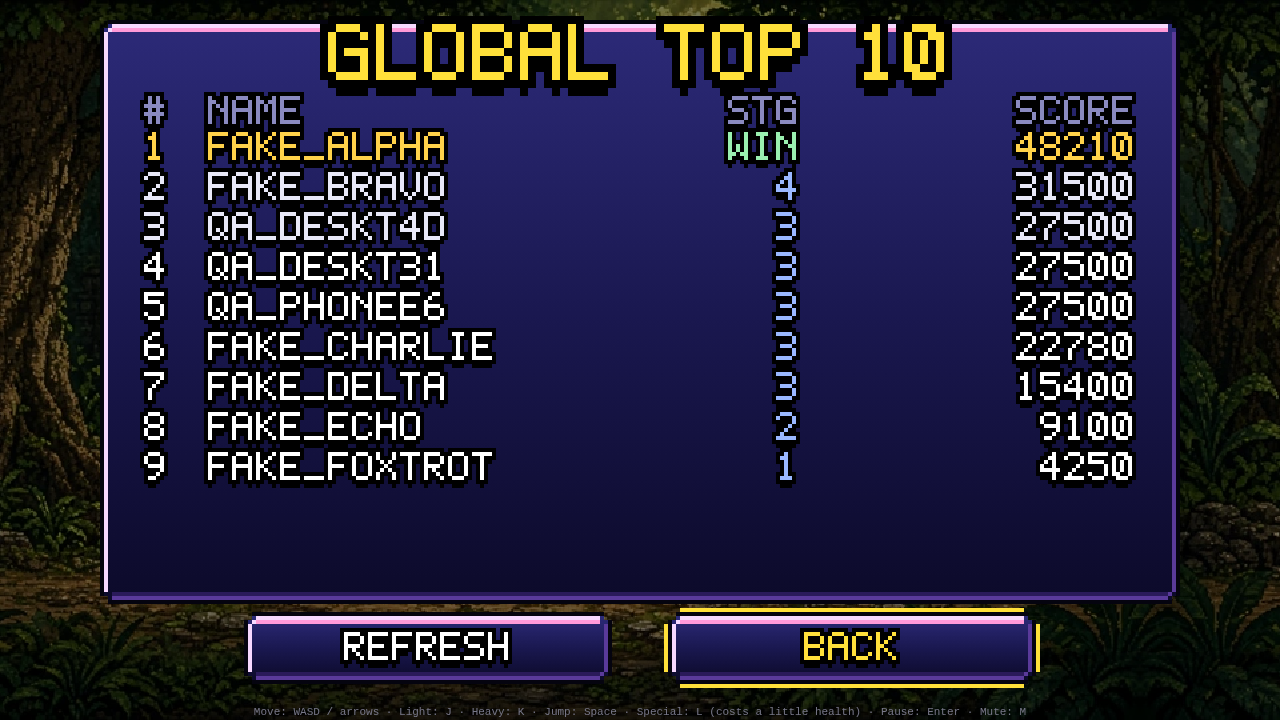
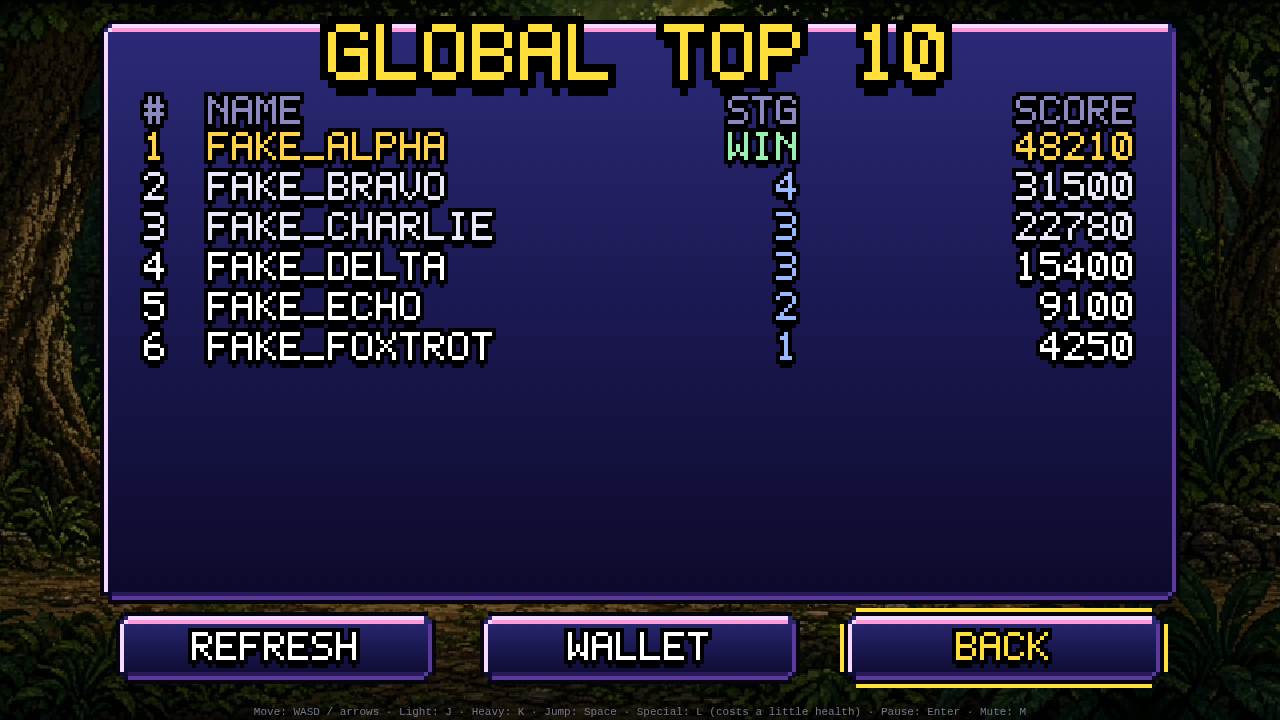
Optional private SOL wallet: set_wallet RPC, wallet dialog, export script, tests

diff --git a/js/lbui.js b/js/lbui.js
@@ -1,36 +1,48 @@
-// Name-entry overlay shown when a run ends. Plain DOM so phones get a real keyboard; styled to match the game's panels.
-import { cleanName, getName, setName, submitScore, friendlyError } from './leaderboard.js';
-let el, input, msg, title, sc, btnGo, btnSkip, btnLb, cur = null;
+// Name-entry / wallet overlay. Plain DOM so phones get a real keyboard; styled to match the game's panels.
+import { cleanName, checkWallet, getName, setName, getWallet, saveWallet, submitScore, friendlyError } from './leaderboard.js';
+let el, input, wal, msg, title, sc, btnGo, btnSkip, cur = null;
+const NOTE = 'WALLET OPTIONAL. ONLY FOR POSSIBLE FUTURE PRIZES. STORED PRIVATELY, NEVER SHOWN ON THE BOARD.';
 function build() {
   if (el) return;
   el = document.createElement('div'); el.id = 'lbPrompt'; el.hidden = true;
-  el.innerHTML = '<div class="lbbox"><div class="lbt"></div><div class="lbs"></div><div class="lbrow"><input type="text" maxlength="12" autocomplete="off" autocapitalize="characters" autocorrect="off" spellcheck="false" enterkeyhint="send" placeholder="YOUR NAME" aria-label="Leaderboard name (3 to 12 characters)"><button type="button" class="lbgo">SUBMIT</button><button type="button" class="lbsk">SKIP</button></div><div class="lbm"></div></div>';
+  el.innerHTML = '<div class="lbbox"><div class="lbt"></div><div class="lbs"></div>'
+    + '<div class="lbrow"><input class="lbname" type="text" maxlength="12" autocomplete="off" autocapitalize="characters" autocorrect="off" spellcheck="false" enterkeyhint="next" placeholder="YOUR NAME" aria-label="Leaderboard name (3 to 12 characters)"><button type="button" class="lbgo">SUBMIT</button><button type="button" class="lbsk">SKIP</button></div>'
+    + '<div class="lbrow lbw"><input class="lbwal" type="text" maxlength="50" autocomplete="off" autocapitalize="off" autocorrect="off" spellcheck="false" enterkeyhint="send" placeholder="SOL WALLET (OPTIONAL)" aria-label="Solana wallet address, optional"></div>'
+    + '<div class="lbn"></div><div class="lbm"></div></div>';
   document.body.appendChild(el);
-  input = el.querySelector('input'); msg = el.querySelector('.lbm'); title = el.querySelector('.lbt'); sc = el.querySelector('.lbs'); btnGo = el.querySelector('.lbgo'); btnSkip = el.querySelector('.lbsk');
+  input = el.querySelector('.lbname'); wal = el.querySelector('.lbwal'); msg = el.querySelector('.lbm'); title = el.querySelector('.lbt'); sc = el.querySelector('.lbs'); btnGo = el.querySelector('.lbgo'); btnSkip = el.querySelector('.lbsk');
+  el.querySelector('.lbn').textContent = NOTE;
   el.addEventListener('pointerdown', e => e.stopPropagation()); el.addEventListener('keydown', e => e.stopPropagation()); el.addEventListener('keyup', e => e.stopPropagation());
-  input.addEventListener('keydown', e => { if (e.key === 'Enter') { e.preventDefault(); go(); } else if (e.key === 'Escape') close(false); });
+  input.addEventListener('keydown', e => { if (e.key === 'Enter') { e.preventDefault(); wal.focus(); } else if (e.key === 'Escape') close(false); });
+  wal.addEventListener('keydown', e => { if (e.key === 'Enter') { e.preventDefault(); go(); } else if (e.key === 'Escape') close(false); });
   btnGo.addEventListener('click', go); btnSkip.addEventListener('click', () => close(false));
 }
-function close(sub) { el.hidden = true; try { input.blur(); } catch (_) {} const c = cur; cur = null; if (c) c.done(sub); }
+function close(sub) { el.hidden = true; try { input.blur(); wal.blur(); } catch (_) {} const c = cur; cur = null; if (c) c.done(sub); }
+const bad = t => { msg.textContent = t; msg.className = 'lbm bad'; };
 async function go() {
-  if (!cur) return;
+  if (!cur || btnGo.disabled) return;
   if (cur.finished) { const c = cur; cur = null; el.hidden = true; c.done(true, true); return; }
-  const v = cleanName(input.value); if (!v.ok) { msg.textContent = v.err; msg.className = 'lbm bad'; return; }
+  const v = cleanName(input.value); if (!v.ok) return bad(v.err);
+  const w = checkWallet(wal.value); if (!w.ok) return bad(w.err);
   btnGo.disabled = true; msg.textContent = 'SENDING...'; msg.className = 'lbm';
+  let note = '';
   try {
+    if (cur.walletOnly) { await saveWallet(v.name, w.wallet); setName(v.name); msg.textContent = w.wallet ? 'WALLET SAVED' : 'WALLET REMOVED'; msg.className = 'lbm ok'; cur.finished = true; btnGo.disabled = false; btnGo.textContent = 'OK'; btnSkip.hidden = true; return; }
     const r = await submitScore({ name: v.name, score: cur.score, stage: cur.stage, won: cur.won });
-    setName(v.name); cur.finished = true;
-    msg.textContent = 'SAVED!' + (r.rank ? ' YOU ARE RANK #' + r.rank : ''); msg.className = 'lbm ok';
-    btnGo.textContent = 'LEADERBOARD'; btnGo.disabled = false; btnSkip.textContent = 'CLOSE'; input.disabled = true;
-    cur.result = { id: r.id, rank: r.rank, name: v.name, score: cur.score };
+    setName(v.name); cur.finished = true; cur.result = { id: r.id, rank: r.rank, name: v.name, score: cur.score };
     cur.onSaved && cur.onSaved(cur.result);
-  } catch (e) { msg.textContent = friendlyError(e) + ' (RETRY OR SKIP)'; msg.className = 'lbm bad'; btnGo.disabled = false; }
+    if (w.wallet || getWallet()) { try { await saveWallet(v.name, w.wallet); note = w.wallet ? ' WALLET SAVED.' : ''; } catch (e) { note = ' (WALLET NOT SAVED: ' + friendlyError(e).replace('SCORE ', '') + ')'; } }
+    msg.textContent = 'SAVED!' + (r.rank ? ' YOU ARE RANK #' + r.rank + '.' : '') + note; msg.className = 'lbm ok';
+    btnGo.textContent = 'LEADERBOARD'; btnGo.disabled = false; btnSkip.textContent = 'CLOSE'; input.disabled = true; wal.disabled = true;
+  } catch (e) { bad(friendlyError(e) + ' (RETRY OR SKIP)'); btnGo.disabled = false; }
 }
-// opts: {score, stage, won, title, onSaved, done(submitted, openBoard)}
+// opts: {score, stage, won, title, walletOnly, onSaved, done(submitted, openBoard)}
 export function openPrompt(opts) {
   build(); cur = { ...opts, finished: false };
-  title.textContent = opts.title; sc.textContent = 'SCORE ' + opts.score; msg.textContent = 'ENTER A NAME FOR THE GLOBAL BOARD'; msg.className = 'lbm';
-  btnGo.textContent = 'SUBMIT'; btnGo.disabled = false; btnSkip.textContent = 'SKIP'; input.disabled = false; input.value = getName();
-  el.hidden = false; setTimeout(() => { try { input.focus(); input.select(); } catch (_) {} }, 50);
+  title.textContent = opts.title; sc.textContent = opts.walletOnly ? 'SOL WALLET FOR POSSIBLE FUTURE PRIZES' : 'SCORE ' + opts.score; sc.hidden = false;
+  msg.textContent = opts.walletOnly ? 'LEAVE WALLET EMPTY TO REMOVE IT' : 'ENTER A NAME FOR THE GLOBAL BOARD'; msg.className = 'lbm';
+  btnGo.textContent = opts.walletOnly ? 'SAVE' : 'SUBMIT'; btnGo.disabled = false; btnSkip.textContent = opts.walletOnly ? 'CANCEL' : 'SKIP'; btnSkip.hidden = false;
+  input.disabled = false; wal.disabled = false; input.value = getName(); wal.value = getWallet();
+  el.hidden = false; setTimeout(() => { try { (input.value ? wal : input).focus(); } catch (_) {} }, 50);
 }
 export const promptOpen = () => !!cur;

diff --git a/js/leaderboard.js b/js/leaderboard.js
@@ -1,6 +1,6 @@
 // Global leaderboard client (Supabase REST, public key only). Every call fails soft: the game never depends on the network.
 import { LB_URL, LB_KEY } from './lbconfig.js';
-const NAME_KEY = 'harambe-lb-name', TOKEN_KEY = 'harambe-lb-token', LAST_KEY = 'harambe-lb-last';
+const WALLET_KEY = 'harambe-lb-wallet', NAME_KEY = 'harambe-lb-name', TOKEN_KEY = 'harambe-lb-token', LAST_KEY = 'harambe-lb-last';
 let memToken = null;
 const ls = { get(k) { try { return localStorage.getItem(k); } catch (_) { return null; } }, set(k, v) { try { localStorage.setItem(k, v); } catch (_) {} } };
 
@@ -19,6 +19,15 @@ export function cleanName(raw) {
 }
 export const getName = () => ls.get(NAME_KEY) || '';
 export const setName = n => ls.set(NAME_KEY, n);
+// SOL address: base58 (no 0 O I l), 32-44 chars. Empty is allowed (optional).
+export function checkWallet(raw) {
+  const w = String(raw == null ? '' : raw).trim();
+  if (!w) return { ok: true, wallet: '' };
+  if (!/^[1-9A-HJ-NP-Za-km-z]{32,44}$/.test(w)) return { ok: false, err: 'NOT A VALID SOL ADDRESS (32-44 CHARS, NO 0 O I l)' };
+  return { ok: true, wallet: w };
+}
+export const getWallet = () => ls.get(WALLET_KEY) || '';
+export const setWalletLocal = w => ls.set(WALLET_KEY, w);
 export function getToken() {
   let t = ls.get(TOKEN_KEY) || memToken;
   if (!t) { const a = new Uint8Array(16); (globalThis.crypto || {}).getRandomValues ? crypto.getRandomValues(a) : a.forEach((_, i) => a[i] = Math.random() * 256); t = Array.from(a, b => b.toString(16).padStart(2, '0')).join(''); memToken = t; ls.set(TOKEN_KEY, t); }
@@ -38,6 +47,7 @@ async function rpc(fn, body, ms = 7000) {
 }
 export function friendlyError(e) {
   const m = String((e && e.message) || '');
+  if (/bad wallet/.test(m)) return 'NOT A VALID SOL ADDRESS';
   if (/slow down/.test(m)) return 'SLOW DOWN - TRY AGAIN IN A MOMENT';
   if (/rate limit/.test(m)) return 'TOO MANY SUBMISSIONS - TRY LATER';
   if (e && e.server) return 'SCORE REJECTED';
@@ -48,3 +58,4 @@ export async function submitScore({ name, score, stage, won }) {
   return { id: r && r.id, rank: r && r.rank };
 }
 export async function fetchTop(n = 10) { const rows = await rpc('top_scores', { p_limit: n }); return Array.isArray(rows) ? rows : []; }
+export async function saveWallet(name, wallet) { await rpc('set_wallet', { p_token: getToken(), p_name: name, p_wallet: wallet }); setWalletLocal(wallet); }

diff --git a/js/main.js b/js/main.js
@@ -103,9 +103,10 @@ function openLB(from) {
   G.menu = mkLbMenu(); G.mode = 'lb'; G.mt = 0; refreshLB();
 }
 function mkLbMenu() {
-  const m = { kind: 'lb', sel: 1, items: [{ label: 'REFRESH', act: () => refreshLB(), r: { x: 62, y: 154, w: 90, h: 16 } }, { label: 'BACK', act: closeLB, r: { x: 168, y: 154, w: 90, h: 16 } }], back: () => { closeLB(); return null; } };
+  const m = { kind: 'lb', sel: 2, items: [{ label: 'REFRESH', act: () => refreshLB(), r: { x: 30, y: 154, w: 78, h: 16 } }, { label: 'WALLET', act: askWallet, r: { x: 121, y: 154, w: 78, h: 16 } }, { label: 'BACK', act: closeLB, r: { x: 212, y: 154, w: 78, h: 16 } }], back: () => { closeLB(); return null; } };
   return m;
 }
+function askWallet() { openPrompt({ walletOnly: true, title: 'SOL WALLET', done: () => { input.releaseAll(); input.anyPress(); } }); }
 function closeLB() {
   const prev = G.lbPrev || 'title'; input.releaseTouch();
   if (prev === 'title') { G.menu = titleMenu(); setMode('title'); } else { G.menu = null; G.mode = prev; G.mt = G.lbMt || 0; }
@@ -460,7 +461,7 @@ function step(dt) {
     case 'stageclear': G.clearT = (G.clearT || 0) + dt; if (G.clearT > 3.2 && (input.take('start') || input.take('atk') || G.clearT > 6)) { startCutscene(G.stage); } break;
     case 'cutscene': if (stepCutscene(G.cs, dt, input)) afterCutscene(); break;
     case 'outro': if (G.mt > 5.5 && !G.prompted) askScore(true); else if (promptOpen()) input.anyPress(); else if (G.mt > 4 && (input.take('start') || input.take('atk'))) { saveHi(); toTitle(); } break;
-    case 'lb': menuStep(); break;
+    case 'lb': if (promptOpen()) input.anyPress(); else menuStep(); break;
     case 'gameover': if (G.mt > 1 && !G.prompted) askScore(false); else if (promptOpen()) input.anyPress(); else if (G.mt > 1 && (input.take('start') || input.take('atk'))) { saveHi(); G.score = 0; G.p = newPlayer(); startStage(G.stage, true); } break;
   }
   if (G.mode !== 'play') input.pressed.mute = false;

diff --git a/tests/leaderboard.test.js b/tests/leaderboard.test.js
@@ -6,3 +6,9 @@ test('cleanName enforces 3-12 chars and charset', () => { for (const n of ['ab',
 test('cleanName blocks profanity incl. leetspeak, not innocent words', () => { for (const n of ['f u c k', 'SH1T', 'b1tch', 'n4zi']) assert.equal(cleanName(n).ok, false, n); for (const n of ['Classic', 'Assassin', 'Harambe']) assert.equal(cleanName(n).ok, true, n); });
 test('cleanName blocks phone-like digits and domains', () => { assert.equal(cleanName('5551234567').ok, false); assert.equal(cleanName('joe.com').ok, false); });
 test('getToken is stable without storage', () => { const a = getToken(); assert.match(a, /^[0-9a-f]{32}$/); assert.equal(getToken(), a); });
+import { checkWallet } from '../js/leaderboard.js';
+test('checkWallet: empty ok, base58 32-44 ok, junk rejected', () => {
+  assert.deepEqual(checkWallet(''), { ok: true, wallet: '' }); assert.deepEqual(checkWallet('   '), { ok: true, wallet: '' });
+  const good = 'So11111111111111111111111111111111111111112'; assert.equal(checkWallet(' ' + good + ' ').wallet, good);
+  for (const w of ['short', '0'.repeat(40), 'O'.repeat(40), 'I'.repeat(40), 'l'.repeat(40), 'a'.repeat(45), 'a'.repeat(31), 'abc def' + 'a'.repeat(30), '0x' + 'a'.repeat(40)]) assert.equal(checkWallet(w).ok, false, w);
+});

diff --git a/style.css b/style.css
@@ -44,3 +44,6 @@ body.menu:not(.paused) .small.pause{display:none}
 #lbPrompt .lbgo{background:#c8321e;border-color:#ffd0a0}
 #lbPrompt button:disabled{opacity:.5}
 .lbm{min-height:14px;margin-top:5px;font-size:11px;color:#c8d0e0}.lbm.bad{color:#ff8a8a}.lbm.ok{color:#9af0b0}
+#lbPrompt .lbw{margin-top:5px}
+#lbPrompt .lbwal{font-size:12px;letter-spacing:0;text-transform:none;padding:5px 8px}
+.lbn{margin-top:4px;font-size:9px;line-height:1.25;color:#9a9ac8}

diff --git a/tools/qa-leaderboard.py b/tools/qa-leaderboard.py
@@ -27,7 +27,7 @@ async def main():
             await pg.wait_for_function("window.__game.mode=='lb' && window.__game.lb.status=='ok'",timeout=10000); await pg.wait_for_timeout(300)
             assert await G("G.lb.rows.length")>=6; await shot('3_leaderboard_data')
             # back
-            await pg.evaluate("window.__game.menu.items[1].act()"); assert await G("G.mode")=='title'
+            await pg.evaluate("window.__game.menu.items[2].act()"); assert await G("G.mode")=='title'
             # start a run, die with a score -> prompt
             await pg.evaluate("window.__game.menu.items[%d].act()"%(await G("G.menu.items.findIndex(i=>i.label.startsWith('NEW'))")))
             await pg.wait_for_function('window.__game.mode=="play"',timeout=9000)
@@ -35,21 +35,28 @@ async def main():
             await pg.evaluate("(()=>{const G=window.__game;G.score=27500;G.stage=2;G.p.lives=1;G.p.hp=0;G.p.state='dead';G.p.st=1.5})()")
             await pg.wait_for_function('window.__game.mode=="gameover"',timeout=5000)
             await pg.wait_for_selector('#lbPrompt:not([hidden])',timeout=6000); await pg.wait_for_timeout(300)
-            await pg.fill('#lbPrompt input',''); await pg.type('#lbPrompt input','wasd jkl'); assert (await pg.input_value('#lbPrompt input')).upper()=='WASD JKL','typing blocked'
-            await pg.fill('#lbPrompt input','fuck'); await pg.click('#lbPrompt .lbgo'); assert 'DIFFERENT' in await pg.inner_text('.lbm')
-            await pg.fill('#lbPrompt input','ab'); await pg.click('#lbPrompt .lbgo'); assert '3-12' in await pg.inner_text('.lbm')
-            await pg.fill('#lbPrompt input',nm); await shot('2_name_prompt')
-            await pg.click('#lbPrompt .lbgo'); await pg.wait_for_function("document.querySelector('.lbm').textContent.startsWith('SAVED')",timeout=8000); await shot('2b_saved')
+            await pg.fill('#lbPrompt .lbname',''); await pg.type('#lbPrompt .lbname','wasd jkl'); assert (await pg.input_value('#lbPrompt .lbname')).upper()=='WASD JKL','typing blocked'
+            await pg.fill('#lbPrompt .lbname','fuck'); await pg.click('#lbPrompt .lbgo'); assert 'DIFFERENT' in await pg.inner_text('.lbm')
+            await pg.fill('#lbPrompt .lbname','ab'); await pg.click('#lbPrompt .lbgo'); assert '3-12' in await pg.inner_text('.lbm')
+            await pg.fill('#lbPrompt .lbname',nm); await pg.fill('#lbPrompt .lbwal','abc0OIl-bad'); await pg.click('#lbPrompt .lbgo'); assert 'VALID SOL' in await pg.inner_text('.lbm'); await shot('2c_wallet_invalid')
+            await pg.fill('#lbPrompt .lbwal','FakeQaTestWaaet'+'1'*20); await shot('2_name_prompt')
+            await pg.click('#lbPrompt .lbgo'); await pg.wait_for_function("document.querySelector('.lbm').textContent.startsWith('SAVED')",timeout=8000); assert 'WALLET SAVED' in await pg.inner_text('.lbm'); await shot('2b_saved')
             assert (await G("G.lastRun.rank"))>=1; print(tag,'rank',await G("G.lastRun.rank"))
             await pg.click('#lbPrompt .lbgo')  # LEADERBOARD
             await pg.wait_for_function("window.__game.mode=='lb' && window.__game.lb.status=='ok'",timeout=10000); await pg.wait_for_timeout(300)
             assert nm.lower() in [x['name'].lower() for x in await G("G.lb.rows")], 'submitted score not listed'
             await shot('4_leaderboard_mine')
-            await pg.evaluate("window.__game.menu.items[1].act()"); assert await G("G.mode")=='gameover'
+            wi=await G("G.menu.items.findIndex(i=>i.label=='WALLET')"); assert wi>=0
+            r=await pg.evaluate("(()=>{const G=window.__game,it=G.menu.items[%d].r,c=document.getElementById('c').getBoundingClientRect();return [c.left+(it.x+it.w/2)/320*c.width,c.top+(it.y+it.h/2)/180*c.height,it.h/180*c.height]})()"%wi)
+            if touch: assert r[2]>=34,r; await pg.touchscreen.tap(r[0],r[1])
+            else: await pg.mouse.click(r[0],r[1])
+            await pg.wait_for_selector('#lbPrompt:not([hidden])'); assert (await pg.input_value('#lbPrompt .lbwal')).startswith('FakeQa'); await shot('6_wallet_dialog')
+            await pg.click('#lbPrompt .lbsk'); await pg.wait_for_timeout(200); assert await G("G.mode")=='lb'
+            await pg.evaluate("window.__game.menu.items[2].act()"); assert await G("G.mode")=='gameover'
             # offline: block network and try again on a fresh game over
             await ctx.set_offline(True)
             await pg.evaluate("(()=>{const G=window.__game;G.prompted=false;G.mt=2})()"); await pg.wait_for_selector('#lbPrompt:not([hidden])')
-            await pg.fill('#lbPrompt input','QA_OFFLINE'); await pg.click('#lbPrompt .lbgo'); await pg.wait_for_function("document.querySelector('.lbm').textContent.includes('OFFLINE')",timeout=9000); await shot('5_offline')
+            await pg.fill('#lbPrompt .lbname','QA_OFFLINE'); await pg.click('#lbPrompt .lbgo'); await pg.wait_for_function("document.querySelector('.lbm').textContent.includes('OFFLINE')",timeout=9000); await shot('5_offline')
             await pg.click('#lbPrompt .lbsk'); await ctx.set_offline(False)
             assert await G("G.mode")=='gameover'
             # game still continues: enter retries stage

diff --git a/tools/export-wallets.py b/tools/export-wallets.py
@@ -1,0 +1,24 @@
+#!/usr/bin/env python3
+"""Export private SOL wallets (joined with each player's best score) to CSV.
+Usage:  SUPABASE_SERVICE_KEY=... python3 tools/export-wallets.py [-o wallets.csv]
+   or:  python3 tools/export-wallets.py --key-file /path/to/service_key.txt [-o wallets.csv]
+The service key is NEVER stored in this repo. Wallets are private: keep the CSV out of git."""
+import argparse, csv, json, os, re, sys, urllib.request
+ROOT = os.path.dirname(os.path.dirname(os.path.abspath(__file__)))
+URL = re.search(r"LB_URL = '([^']+)'", open(os.path.join(ROOT, 'js', 'lbconfig.js')).read()).group(1)
+ap = argparse.ArgumentParser(); ap.add_argument('--key-file'); ap.add_argument('-o', '--out', default='harambe-wallets.csv'); a = ap.parse_args()
+key = open(a.key_file).read().strip() if a.key_file else os.environ.get('SUPABASE_SERVICE_KEY', '').strip()
+if not key: sys.exit('Provide the service key via SUPABASE_SERVICE_KEY or --key-file (never commit it).')
+def get(path):
+    r = urllib.request.Request(URL + '/rest/v1/' + path, headers={'apikey': key, 'Authorization': 'Bearer ' + key})
+    return json.load(urllib.request.urlopen(r))
+wallets = get('harambe_wallets?select=name,wallet,created_at,last_seen&order=created_at.asc')
+best = {}
+for s in get('harambe_scores?select=name,score,stage,won&hidden=eq.false&limit=100000'):
+    k = s['name'].lower()
+    if k not in best or s['score'] > best[k]['score']: best[k] = s
+with open(a.out, 'w', newline='') as f:
+    w = csv.writer(f); w.writerow(['name', 'wallet', 'best_score', 'best_stage', 'won', 'created_at', 'last_seen'])
+    for x in wallets:
+        b = best.get(x['name'].lower(), {}); w.writerow([x['name'], x['wallet'], b.get('score', ''), b.get('stage', ''), b.get('won', ''), x['created_at'], x['last_seen']])
+os.chmod(a.out, 0o600); print('wrote %d wallets to %s' % (len(wallets), a.out))

diff --git a/README.md b/README.md
@@ -50,3 +50,5 @@ By kungFuDOOM.
 
 ## Global leaderboard
 Finish a run (Game Over or the ending) and you can post a name (3-12 chars) + score to a global top 10; open it any time from **LEADERBOARD** on the title menu. Backend is a Supabase table (`harambe_scores`, SQL in `supabase/`) reached only through two RPCs (`submit_score`, `top_scores`) with the public key in `js/lbconfig.js`. If the network is down the game just says so and carries on. Scores are client-reported, so they can be faked; the server validates ranges, rate-limits per browser and rows can be hidden. QA: `python3 tools/qa-leaderboard.py`.
+
+Optional SOL wallet: players may add one (name prompt, or WALLET on the Leaderboard). It is stored privately (`harambe_wallets`, no client read access) and never shown. Export with `tools/export-wallets.py` (service key from env/file, never committed).
